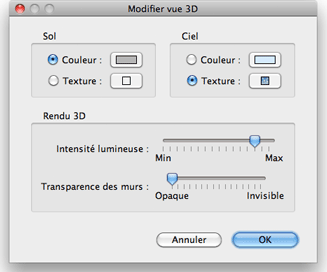
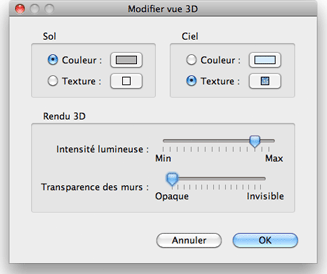
Improved layout of 3D view modification pane
git-svn-id: https://svn.code.sf.net/p/sweethome3d/code@3484 03e323e1-6c6c-46a5-9f71-c4ce5d8c6204

diff --git a/trunk/SweetHome3D/src/com/eteks/sweethome3d/viewcontroller/resources/help/fr/editing3DView.html b/trunk/SweetHome3D/src/com/eteks/sweethome3d/viewcontroller/resources/help/fr/editing3DView.html
@@ -142,7 +142,7 @@
       <p>Finalement,  le menu <i>Vue
         3D &gt; Modifier la vue 3D...</i> affiche le panneau de la vue 3D qui permet d'&eacute;diter la couleur ou la texture du sol et du ciel, l'intensit&eacute; de la lumi&egrave;re
         et la transparence des murs (et des planchers/plafonds des pi&egrave;ces).</p>
-      <p align="center"><img src="images/editing3DView.png" alt="Modification de la vue 3D" width="309" height="272"></p></td>
+      <p align="center"><img src="images/editing3DView.png" alt="Modification de la vue 3D" width="327" height="274"></p></td>
   </tr>
 </table>
 <div id="taskbox">

diff --git a/trunk/SweetHome3D/src/com/eteks/sweethome3d/viewcontroller/resources/help/en/editing3DView.html b/trunk/SweetHome3D/src/com/eteks/sweethome3d/viewcontroller/resources/help/en/editing3DView.html
@@ -131,7 +131,7 @@
           view &gt; Modify 3D view...</i> menu item  displays the 3D view pane which lets you change the color or the texture
           of the ground and
           the sky, the light brightness and walls (and floors) transparency.</p>
-        <p align="center"><img src="images/editing3DView.png" width="309" height="272"><br>
+        <p align="center"><img src="images/editing3DView.png" width="316" height="273"><br>
       </p></td>
   </tr>
 </table>

diff --git a/trunk/SweetHome3D/src/com/eteks/sweethome3d/swing/Home3DAttributesPanel.java b/trunk/SweetHome3D/src/com/eteks/sweethome3d/swing/Home3DAttributesPanel.java
@@ -308,14 +308,14 @@ public class Home3DAttributesPanel extends JPanel implements DialogView {
     // First row
     Insets labelInsets = new Insets(0, 0, 2, 5);
     groundPanel.add(this.groundColorRadioButton, new GridBagConstraints(
-        0, 0, 1, 1, 0, 0, labelAlignment, 
+        0, 0, 1, 1, 0, 0, GridBagConstraints.LINE_START, 
         GridBagConstraints.NONE, labelInsets, 0, 0));
     groundPanel.add(this.groundColorButton, new GridBagConstraints(
         1, 0, 1, 1, 0, 0, GridBagConstraints.LINE_START, 
         GridBagConstraints.HORIZONTAL, new Insets(0, 0, 2, 0), 0, 0));
     // Second row
     groundPanel.add(this.groundTextureRadioButton, new GridBagConstraints(
-        0, 1, 1, 1, 0, 0, labelAlignment, 
+        0, 1, 1, 1, 0, 0, GridBagConstraints.LINE_START, 
         GridBagConstraints.NONE, new Insets(0, 0, 0, 5), 0, 0));
     groundPanel.add(this.groundTextureComponent, new GridBagConstraints(
         1, 1, 1, 1, 0, 0, GridBagConstraints.LINE_START, 
@@ -334,13 +334,13 @@ public class Home3DAttributesPanel extends JPanel implements DialogView {
     JPanel skyPanel = SwingTools.createTitledPanel(preferences.getLocalizedString(
         Home3DAttributesPanel.class, "skyPanel.title"));
     skyPanel.add(this.skyColorRadioButton, new GridBagConstraints(
-        0, 0, 1, 1, 0, 0, labelAlignment, 
+        0, 0, 1, 1, 0, 0, GridBagConstraints.LINE_START, 
         GridBagConstraints.NONE, labelInsets, 0, 0));
     skyPanel.add(this.skyColorButton, new GridBagConstraints(
         1, 0, 1, 1, 0, 0, GridBagConstraints.LINE_START, 
         GridBagConstraints.HORIZONTAL, new Insets(0, 0, 2, 0), 0, 0));
     skyPanel.add(this.skyTextureRadioButton, new GridBagConstraints(
-        0, 1, 1, 1, 0, 0, labelAlignment, 
+        0, 1, 1, 1, 0, 0, GridBagConstraints.LINE_START, 
         GridBagConstraints.NONE, new Insets(0, 0, 0, 5), 0, 0));
     skyPanel.add(this.skyTextureComponent, new GridBagConstraints(
         1, 1, 1, 1, 0, 0, GridBagConstraints.LINE_START, 
